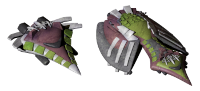
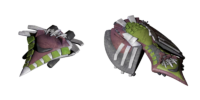
Buyable Wanderer Ships v1.1.0

diff --git a/myplugins/buyable_wanderer_ships/README.md b/myplugins/buyable_wanderer_ships/README.md
@@ -1,0 +1,22 @@
+# Buyable Wanderer Ships
+
+![Icon](https://raw.githubusercontent.com/kaiboyjiang/endless-sky-plugins/v1.1.0-buyable_wanderer_ships/myplugins/buyable_wanderer_ships/icon.png)
+
+[![Download](https://img.shields.io/badge/Download-blue?style=for-the-badge)](https://github.com/kaiboyjiang/endless-sky-plugins/releases/download/v1.1.0-buyable_wanderer_ships/buyable_wanderer_ships.zip)
+
+Adds the Cool Breeze and Winter Gale to all Wanderer shipyards with the Strong Wind, some time after the completion of the Wanderer campaign.
+
+Missions partially copied from Rumskib.
+
+## Releases
+
+<details>
+<summary> v1.1.0 (23 Apr 2026) </summary>
+
+- Shiny new download button
+- 2x icon
+- Modified fleets
+- Updated plugin.txt to be more descriptive
+- Added this readme
+- Updated license
+</details>
